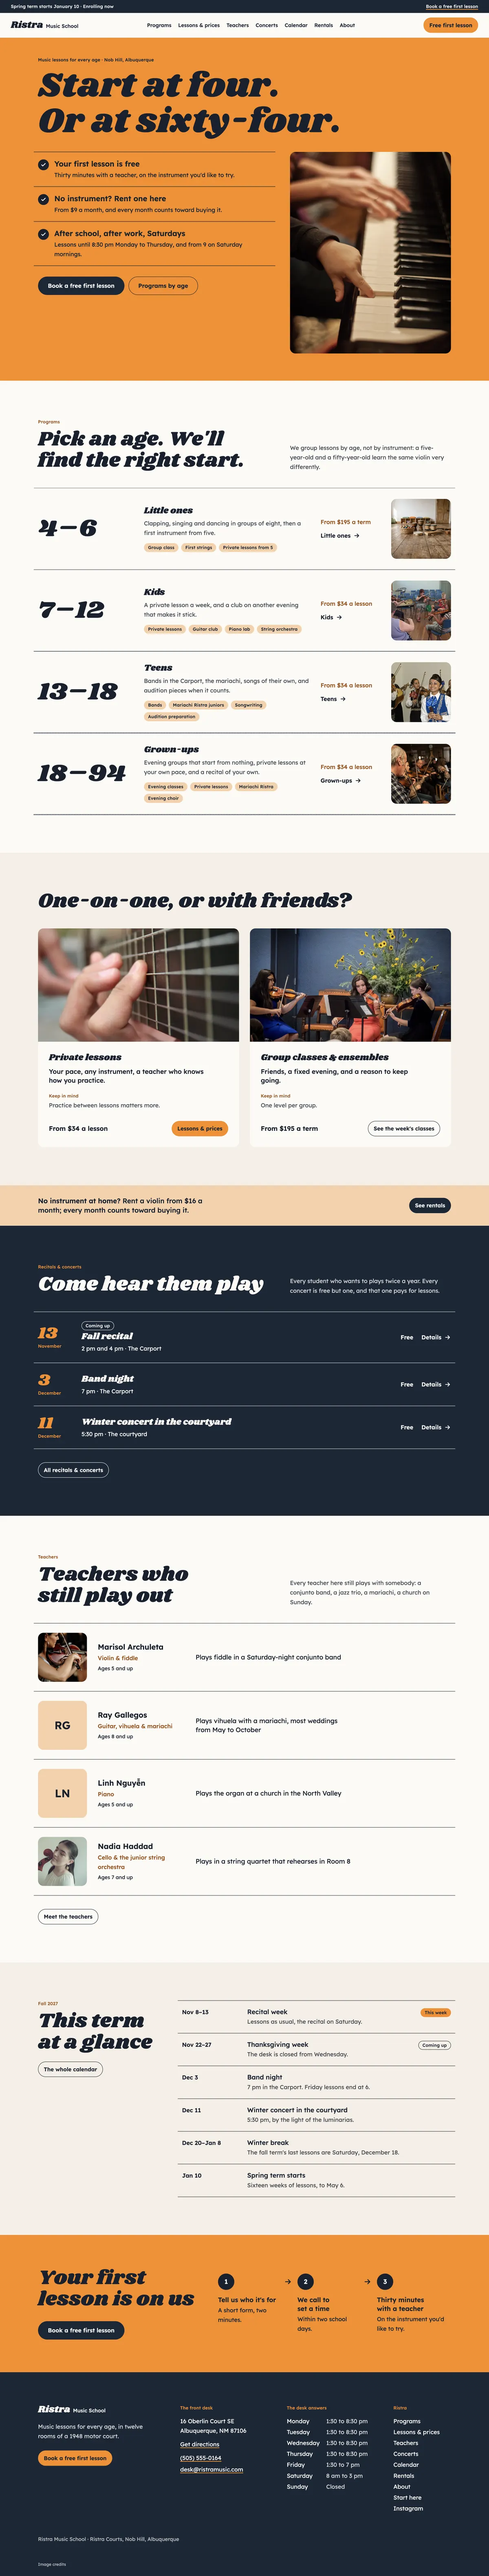
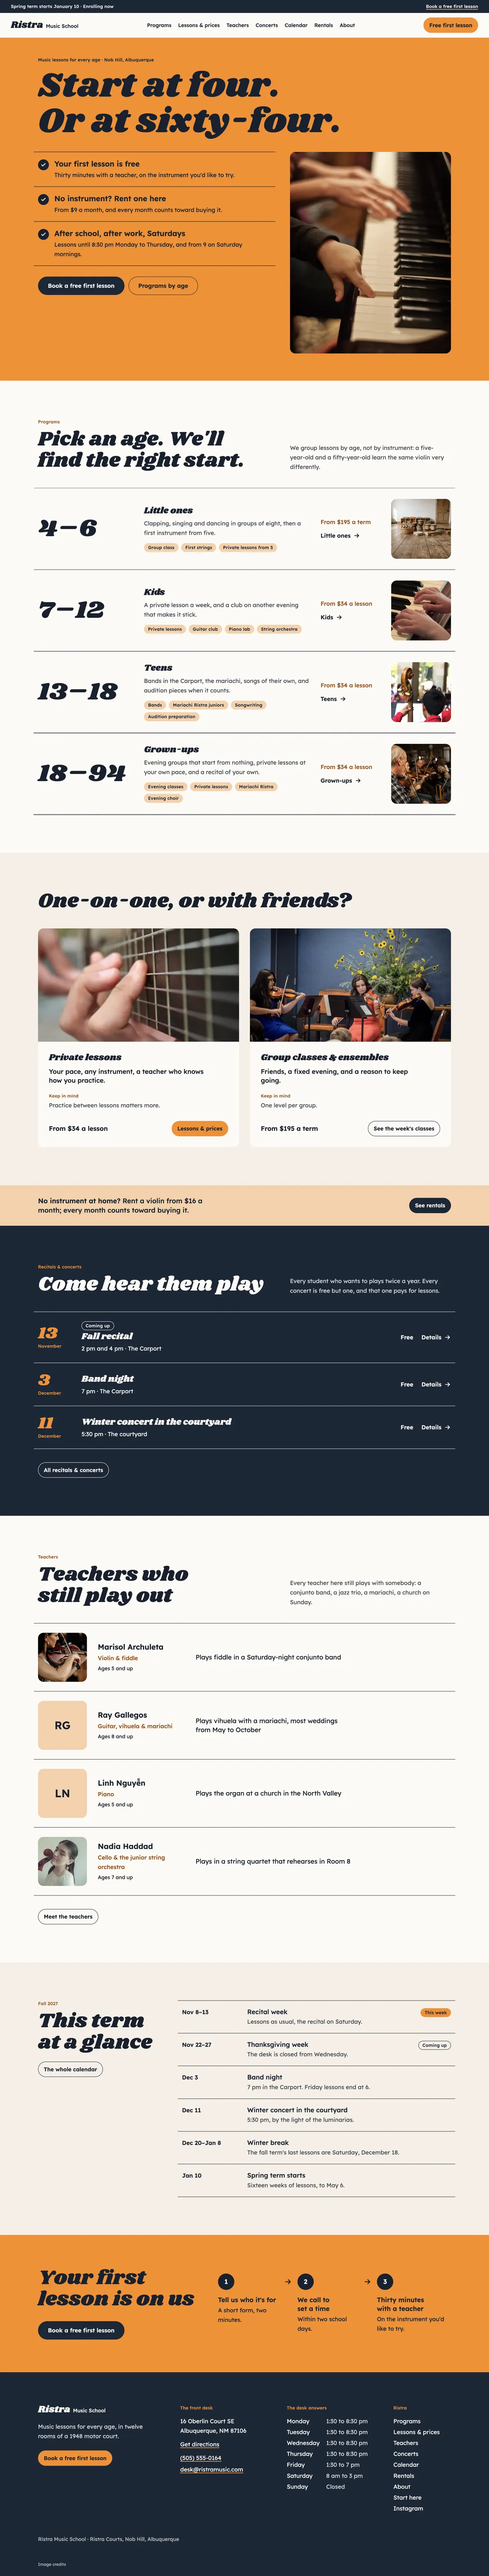
Strum: the menu marks only the page's own section (by the address's first segment, so a concert about teachers is no longer under Teachers), Kids and Teens shown by hands and from behind instead of by faces, a photo that reads in Band night's past years, and pictures taken again

Changed region(s): [[0.8017, 0.2185, 0.925, 0.281]]

diff --git a/strum/TEMPLATE.md b/strum/TEMPLATE.md
@@ -53,7 +53,7 @@ The programs in full, with their classes' evenings, and a page per program: the 
 - **Yes** (as built): each program opens on its page.
 - **The list only**: delete `pages/programs/[programs].liquid`, `data/program-faq/`, the fields `instruments`, `lesson_note` and `body` of `data/programs/`, and `programs` in `data/lesson-rates/`. In `parts/program-row.liquid` the ages and the name lose their links and the last link leads to `/lessons#week`; in `parts/week-of-classes.liquid` and `blocks/services/services-strum-week-of-classes/block.liquid` the class's name loses its link.
 
-When removed: delete `pages/programs/`, `parts/programs-by-age.liquid`, `parts/programs-full.liquid`, `parts/program-row.liquid`, `data/programs/`, `data/program-faq/`, `blocks/features/features-strum-programs-by-age/`, `media/violin-group.jpg`, `media/mariachi-students.jpg`, `media/fiddle-evening.jpg`, the `programs` navigation record and `blocks/footer/footer-strum-front-desk/data/programs.md`; `programs` goes from `data/lesson-rates/` (`media/room-12.webp` stays for `/about`). On the home page, `{% render 'week-of-classes' %}` takes the place of `{% render 'programs-by-age' %}`, its classes grouped by `program`, whose choices become plain words ("Kids, 7 to 12"). Point the hero's second button (`parts/hero.liquid`, `blocks/hero/hero-strum-start-at-four/block.liquid`) to `/lessons`. In `parts/week-of-classes.liquid` and `blocks/services/services-strum-week-of-classes/block.liquid` the class's name loses its link. In `parts/enroll-form.liquid` the program's field goes, and `program` from `data/enrollments/` and from `scripts/prefill.js`. `data/lesson-rates/` then shows on `/lessons` and in the enrollment form only.
+When removed: delete `pages/programs/`, `parts/programs-by-age.liquid`, `parts/programs-full.liquid`, `parts/program-row.liquid`, `data/programs/`, `data/program-faq/`, `blocks/features/features-strum-programs-by-age/`, `media/piano-hands.jpg`, `media/bass-scroll.jpg`, `media/fiddle-evening.jpg`, the `programs` navigation record and `blocks/footer/footer-strum-front-desk/data/programs.md`; `programs` goes from `data/lesson-rates/` (`media/room-12.webp` stays for `/about`). On the home page, `{% render 'week-of-classes' %}` takes the place of `{% render 'programs-by-age' %}`, its classes grouped by `program`, whose choices become plain words ("Kids, 7 to 12"). Point the hero's second button (`parts/hero.liquid`, `blocks/hero/hero-strum-start-at-four/block.liquid`) to `/lessons`. In `parts/week-of-classes.liquid` and `blocks/services/services-strum-week-of-classes/block.liquid` the class's name loses its link. In `parts/enroll-form.liquid` the program's field goes, and `program` from `data/enrollments/` and from `scripts/prefill.js`. `data/lesson-rates/` then shows on `/lessons` and in the enrollment form only.
 
 ### Lessons & prices (`/lessons`)
 
@@ -105,7 +105,7 @@ The recitals and concerts as strung rows with their day large, how playing in a 
 - **Tickets at the door**: each concert's `price`; rewrite the introduction of `parts/concerts-band.liquid` and the description of `pages/concerts/index.liquid`.
 - **Tickets on an outside page**: ask for each address and put it in `booking`, which adds "Tickets" to the row and the page.
 
-When removed: delete `pages/concerts/`, `parts/concerts-band.liquid` and its render in `pages/index.liquid`, `parts/concert-rows.liquid`, `parts/concert-row.liquid`, `parts/playing.liquid`, `data/concerts/`, `data/recital-notes/`, `blocks/events/events-strum-concert-rows/`, the `concerts` navigation record, `blocks/footer/footer-strum-front-desk/data/concerts.md`, and the media only the concerts show: `recital-stage.jpg`, `cello-bow.jpg`, `viola-scroll.jpg`, `cymbals.jpg`, `drummer.jpg`, `electric-guitar.jpg`, `spotlight.jpg`, `luminarias.jpg`, `strumming.jpg` and `violin-hand.jpg` (`recital-trio.jpg` stays for the home page). The calendar keeps the concerts as dates.
+When removed: delete `pages/concerts/`, `parts/concerts-band.liquid` and its render in `pages/index.liquid`, `parts/concert-rows.liquid`, `parts/concert-row.liquid`, `parts/playing.liquid`, `data/concerts/`, `data/recital-notes/`, `blocks/events/events-strum-concert-rows/`, the `concerts` navigation record, `blocks/footer/footer-strum-front-desk/data/concerts.md`, and the media only the concerts show: `recital-stage.jpg`, `cello-bow.jpg`, `viola-scroll.jpg`, `cymbals.jpg`, `drummer.jpg`, `electric-guitar.jpg`, `sneaker-pedals.jpg`, `luminarias.jpg`, `strumming.jpg` and `violin-hand.jpg` (`recital-trio.jpg` stays for the home page). The calendar keeps the concerts as dates.
 
 ### Calendar (`/calendar`)
 

diff --git a/strum/blocks/features/features-strum-programs-by-age/data/teens.md b/strum/blocks/features/features-strum-programs-by-age/data/teens.md
@@ -5,7 +5,7 @@ ages_short: "13–18"
 summary: "Bands in the Carport, the mariachi, songs of their own, and audition pieces when it counts."
 holds: ["Bands", "Mariachi Ristra juniors", "Songwriting", "Audition preparation"]
 from_price: "From $34 a lesson"
-cover: "/media/mariachi-students.jpg"
+cover: "/media/bass-scroll.jpg"
 instruments: ["Electric guitar", "Bass", "Drums", "Voice", "Violin", "Cello", "Trumpet", "Alto saxophone"]
 lesson_note: "Forty-five minutes suits most; an hour in the months before an audition."
 ---

diff --git a/strum/data/programs/teens.md b/strum/data/programs/teens.md
@@ -5,7 +5,7 @@ ages_short: "13–18"
 summary: "Bands in the Carport, the mariachi, songs of their own, and audition pieces when it counts."
 holds: ["Bands", "Mariachi Ristra juniors", "Songwriting", "Audition preparation"]
 from_price: "From $34 a lesson"
-cover: "/media/mariachi-students.jpg"
+cover: "/media/bass-scroll.jpg"
 instruments: ["Electric guitar", "Bass", "Drums", "Voice", "Violin", "Cello", "Trumpet", "Alto saxophone"]
 lesson_note: "Forty-five minutes suits most; an hour in the months before an audition."
 ---

diff --git a/strum/blocks/features/features-strum-programs-by-age/data/kids.md b/strum/blocks/features/features-strum-programs-by-age/data/kids.md
@@ -5,7 +5,7 @@ ages_short: "7–12"
 summary: "A private lesson a week, and a club on another evening that makes it stick."
 holds: ["Private lessons", "Guitar club", "Piano lab", "String orchestra"]
 from_price: "From $34 a lesson"
-cover: "/media/violin-group.jpg"
+cover: "/media/piano-hands.jpg"
 instruments: ["Violin", "Cello", "Guitar", "Piano", "Ukulele", "Drums", "Trumpet", "Voice"]
 lesson_note: "At seven, thirty minutes a week is plenty; most move to forty-five by ten."
 ---

diff --git a/strum/data/programs/kids.md b/strum/data/programs/kids.md
@@ -5,7 +5,7 @@ ages_short: "7–12"
 summary: "A private lesson a week, and a club on another evening that makes it stick."
 holds: ["Private lessons", "Guitar club", "Piano lab", "String orchestra"]
 from_price: "From $34 a lesson"
-cover: "/media/violin-group.jpg"
+cover: "/media/piano-hands.jpg"
 instruments: ["Violin", "Cello", "Guitar", "Piano", "Ukulele", "Drums", "Trumpet", "Voice"]
 lesson_note: "At seven, thirty minutes a week is plenty; most move to forty-five by ten."
 ---

diff --git a/strum/blocks/events/events-strum-concert-rows/data/band-night.md b/strum/blocks/events/events-strum-concert-rows/data/band-night.md
@@ -11,7 +11,7 @@ running_order: ["No Vacancy · Four songs", "The Swamp Coolers · Five songs", "
 sign_up_by: 2027-11-19
 photos:
   - /media/electric-guitar.jpg
-  - /media/spotlight.jpg
+  - /media/sneaker-pedals.jpg
   - /media/drummer.jpg
 ---
 The bands wrote their own set lists and their own names. Jonah mixes, the parents' association sells posole in the courtyard, and it's over by nine.

diff --git a/strum/data/concerts/band-night.md b/strum/data/concerts/band-night.md
@@ -11,7 +11,7 @@ running_order: ["No Vacancy · Four songs", "The Swamp Coolers · Five songs", "
 sign_up_by: 2027-11-19
 photos:
   - /media/electric-guitar.jpg
-  - /media/spotlight.jpg
+  - /media/sneaker-pedals.jpg
   - /media/drummer.jpg
 ---
 The bands wrote their own set lists and their own names. Jonah mixes, the parents' association sells posole in the courtyard, and it's over by nine.
